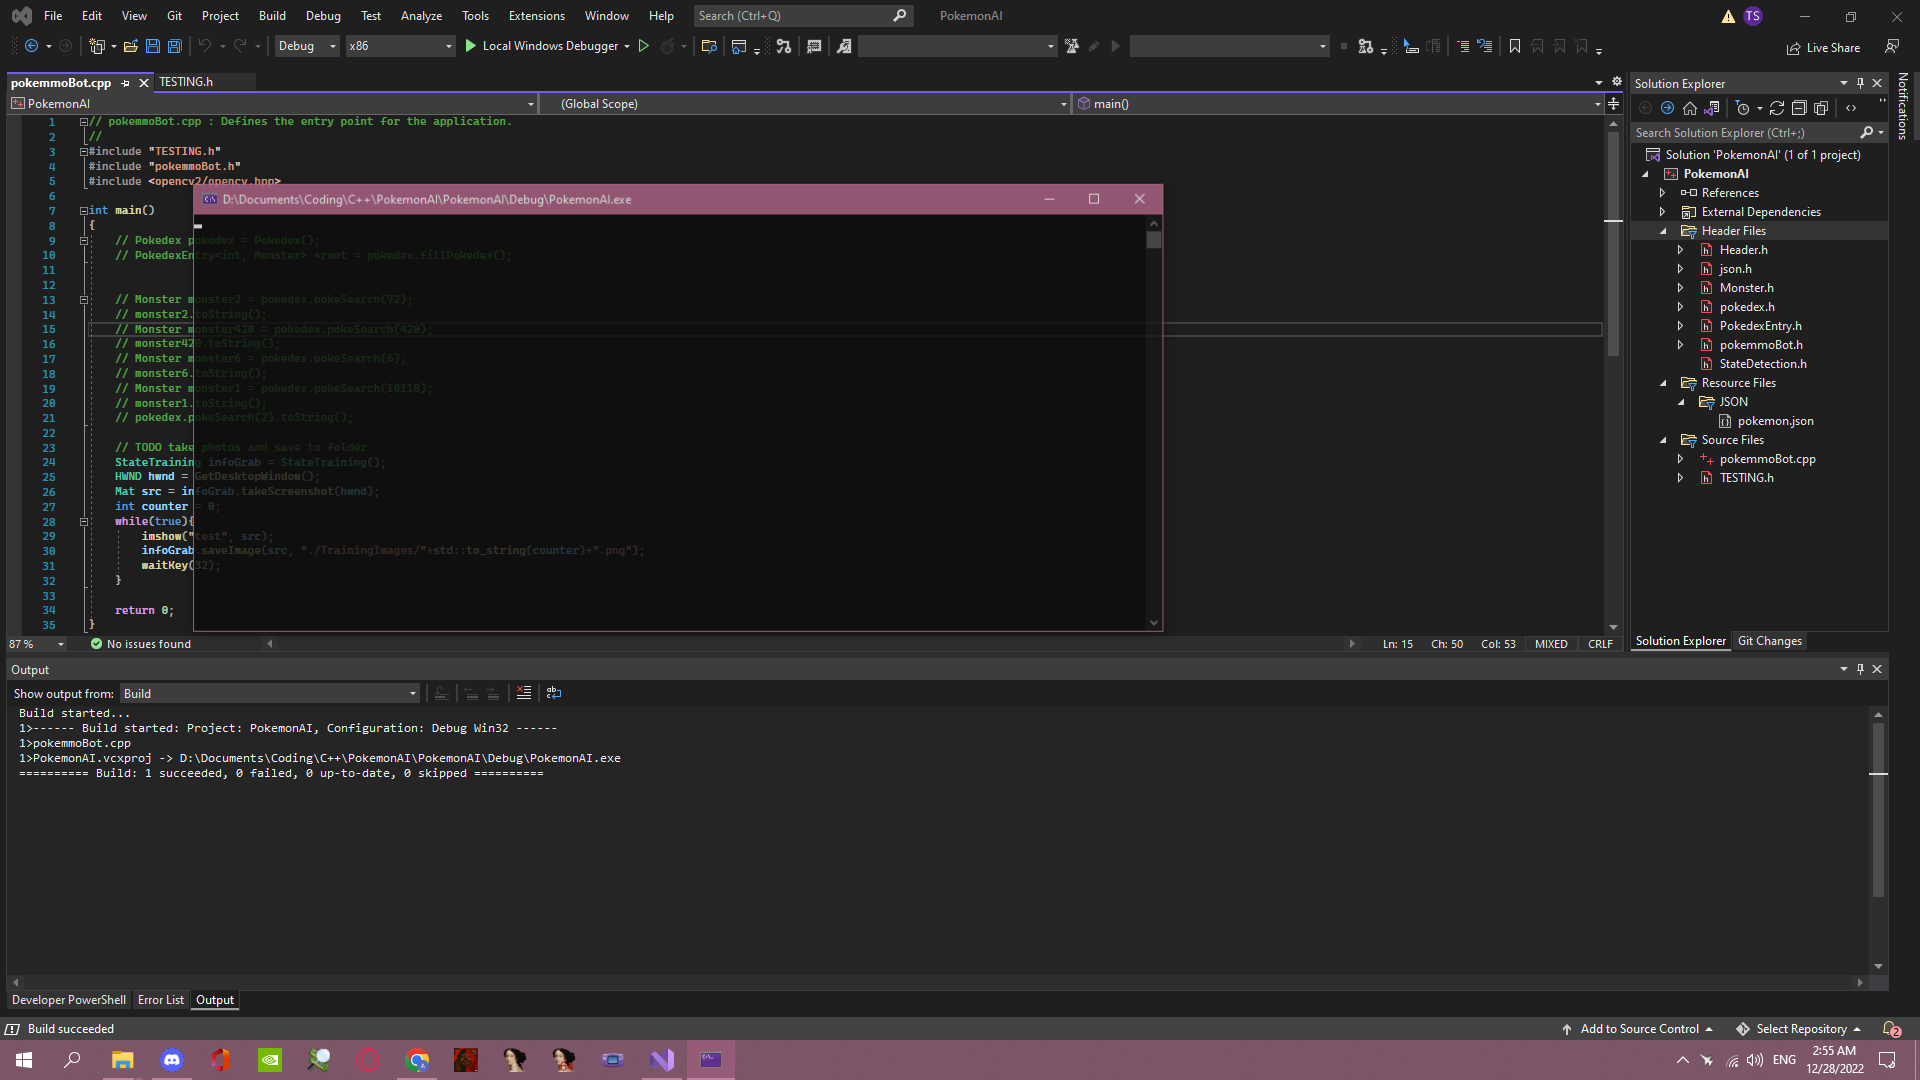
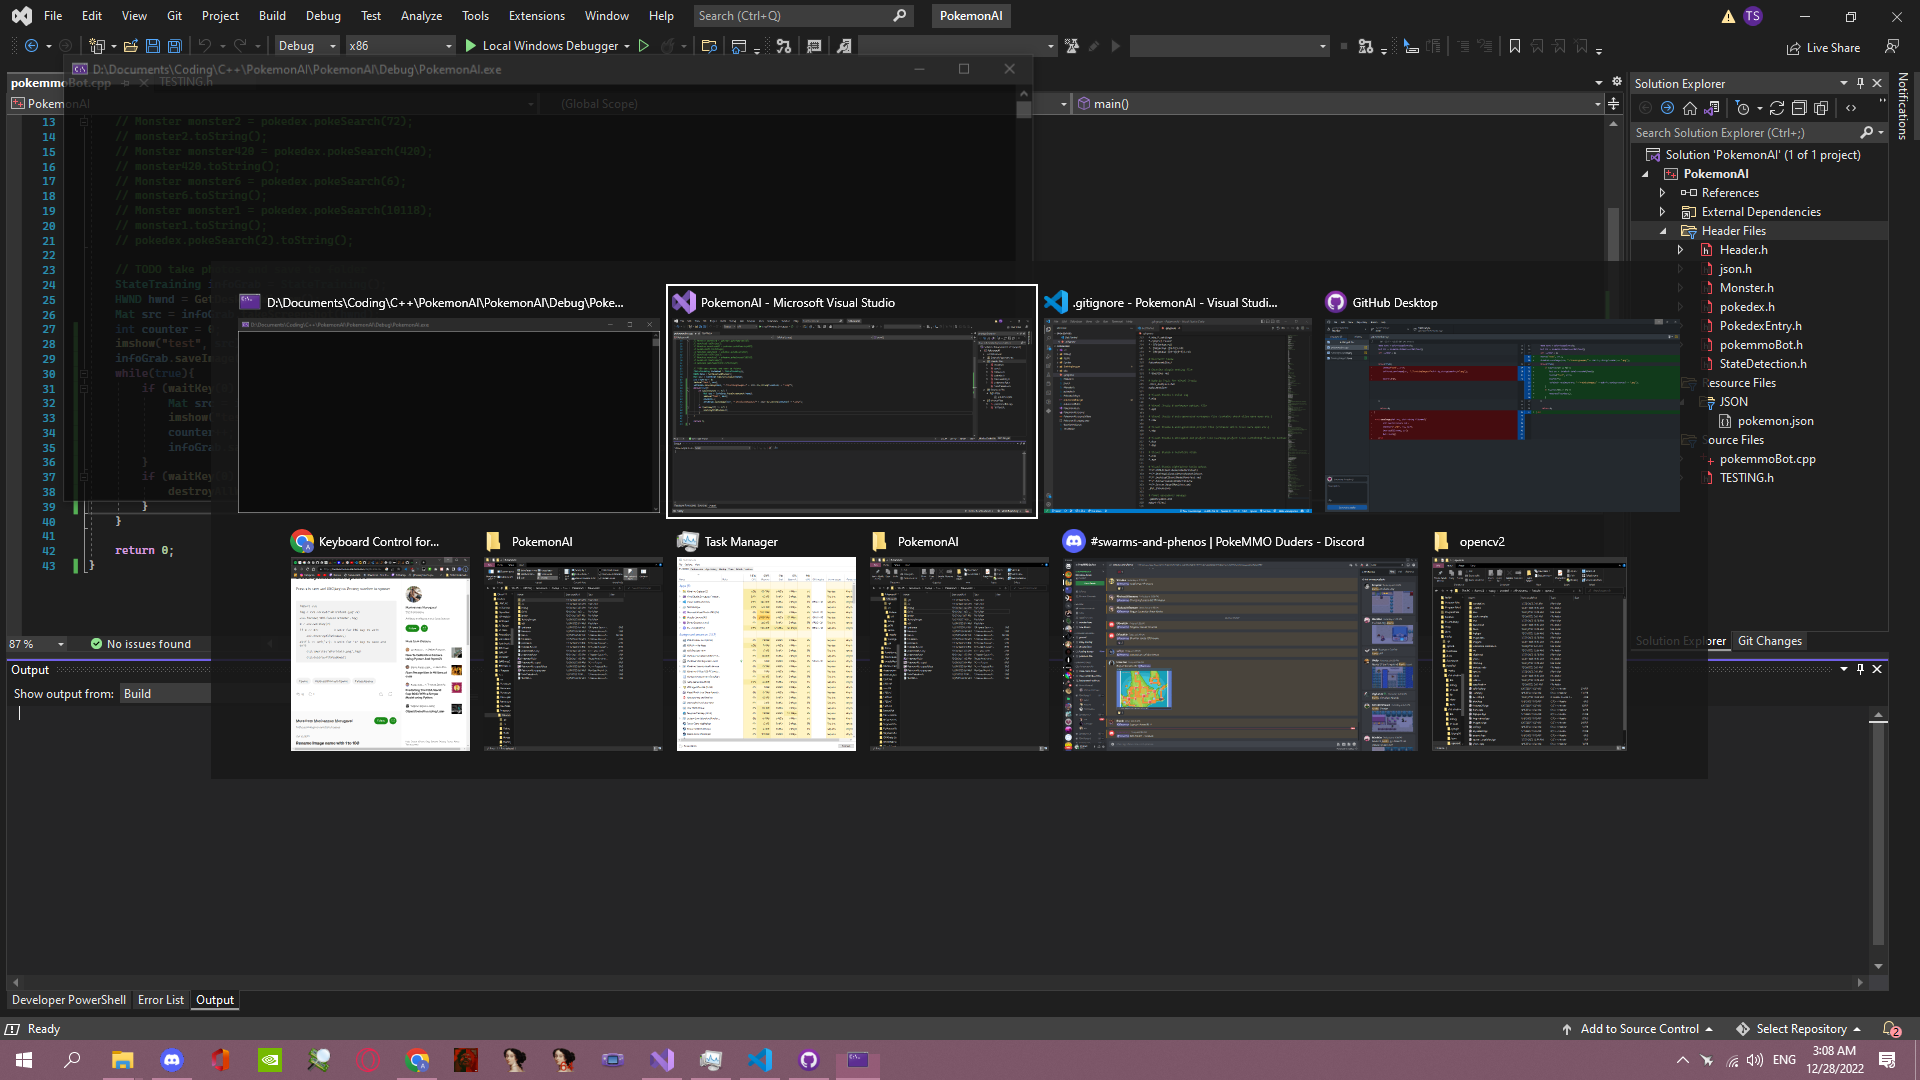
Changed File Name

diff --git a/pokemmoBot.cpp b/pokemmoBot.cpp
@@ -1,8 +1,7 @@
 // pokemmoBot.cpp : Defines the entry point for the application.
 //
-#include "TESTING.h"
+#include "StateTraining.h"
 #include "pokemmoBot.h"
-#include <opencv2/opencv.hpp>
 
 int main()
 {
@@ -25,19 +24,19 @@ int main()
     HWND hwnd = GetDesktopWindow();
     Mat src = infoGrab.takeScreenshot(hwnd);
     int counter = 0;
+    imshow("test", src);
+    infoGrab.saveImage(src, "./TrainingImages/" + std::to_string(counter) + ".png");
     while(true){
-        imshow("test", src);
-        infoGrab.saveImage(src, "./TrainingImages/"+std::to_string(counter)+".png");
-
-        waitKey(32);
+        if (waitKey(0) == 32) {
+            Mat src = infoGrab.takeScreenshot(hwnd);
+            imshow("test", src);
+            counter++;
+            infoGrab.saveImage(src, "./TrainingImages/" + std::to_string(counter) + ".png");
+        }
+        if (waitKey(0) == 27) {
+            destroyAllWindows();
+        }
     }
 
 	return 0;
 }
-
- void saveImage(Mat src, std::string filename){
-        std::vector<uchar> buf;
-        imencode(".png", src, buf);
-        imwrite(filename, src);
-        buf.clear();
-    }
